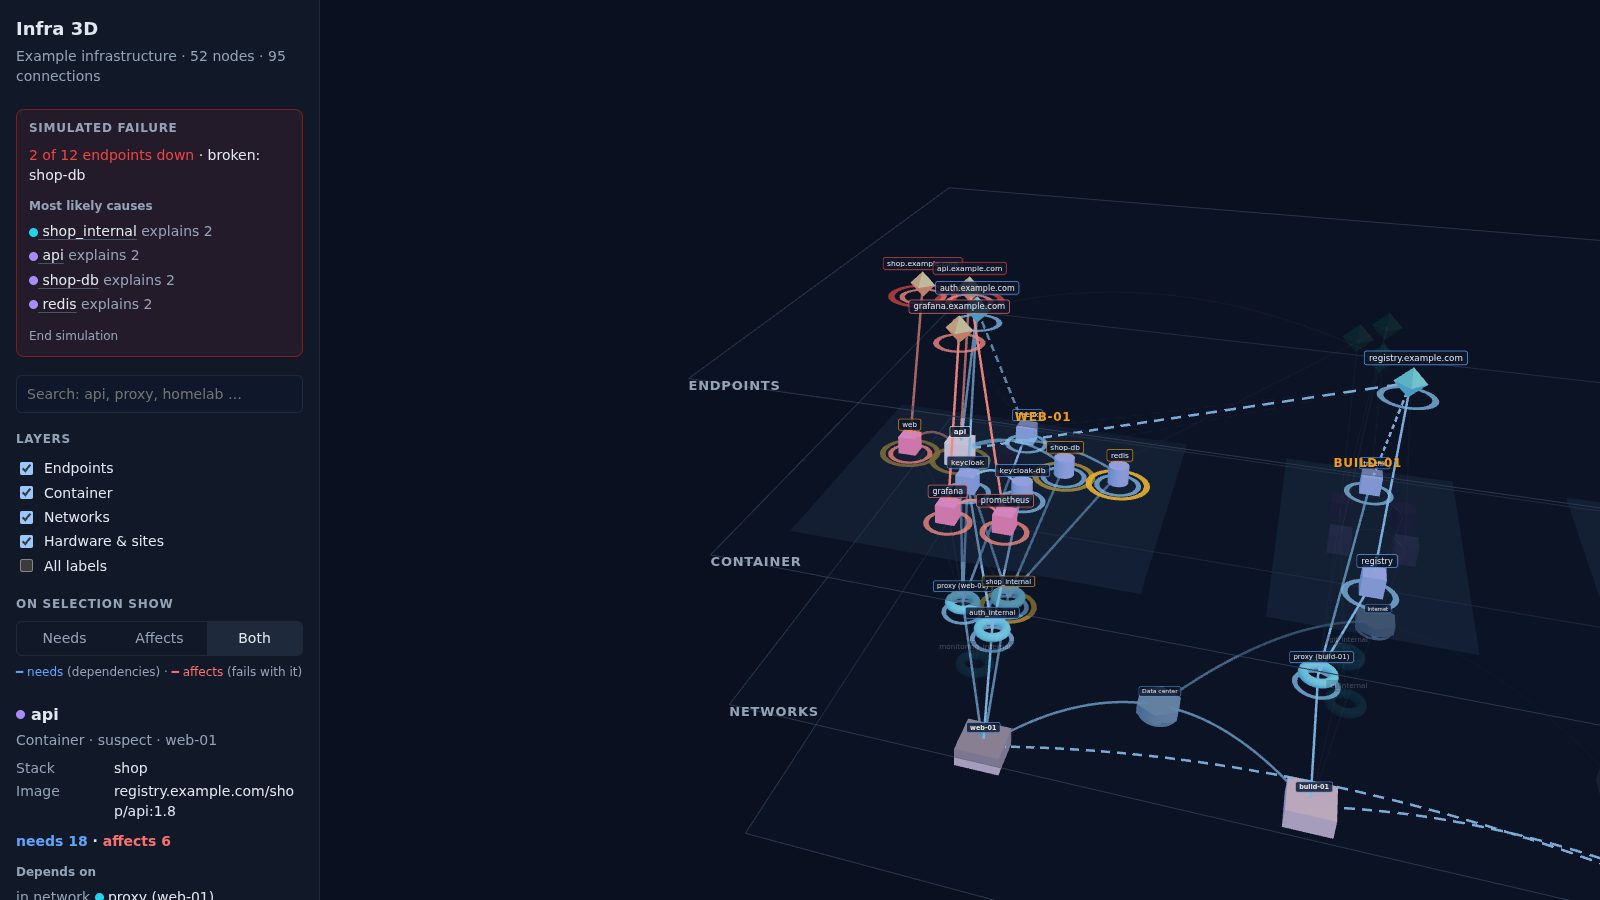
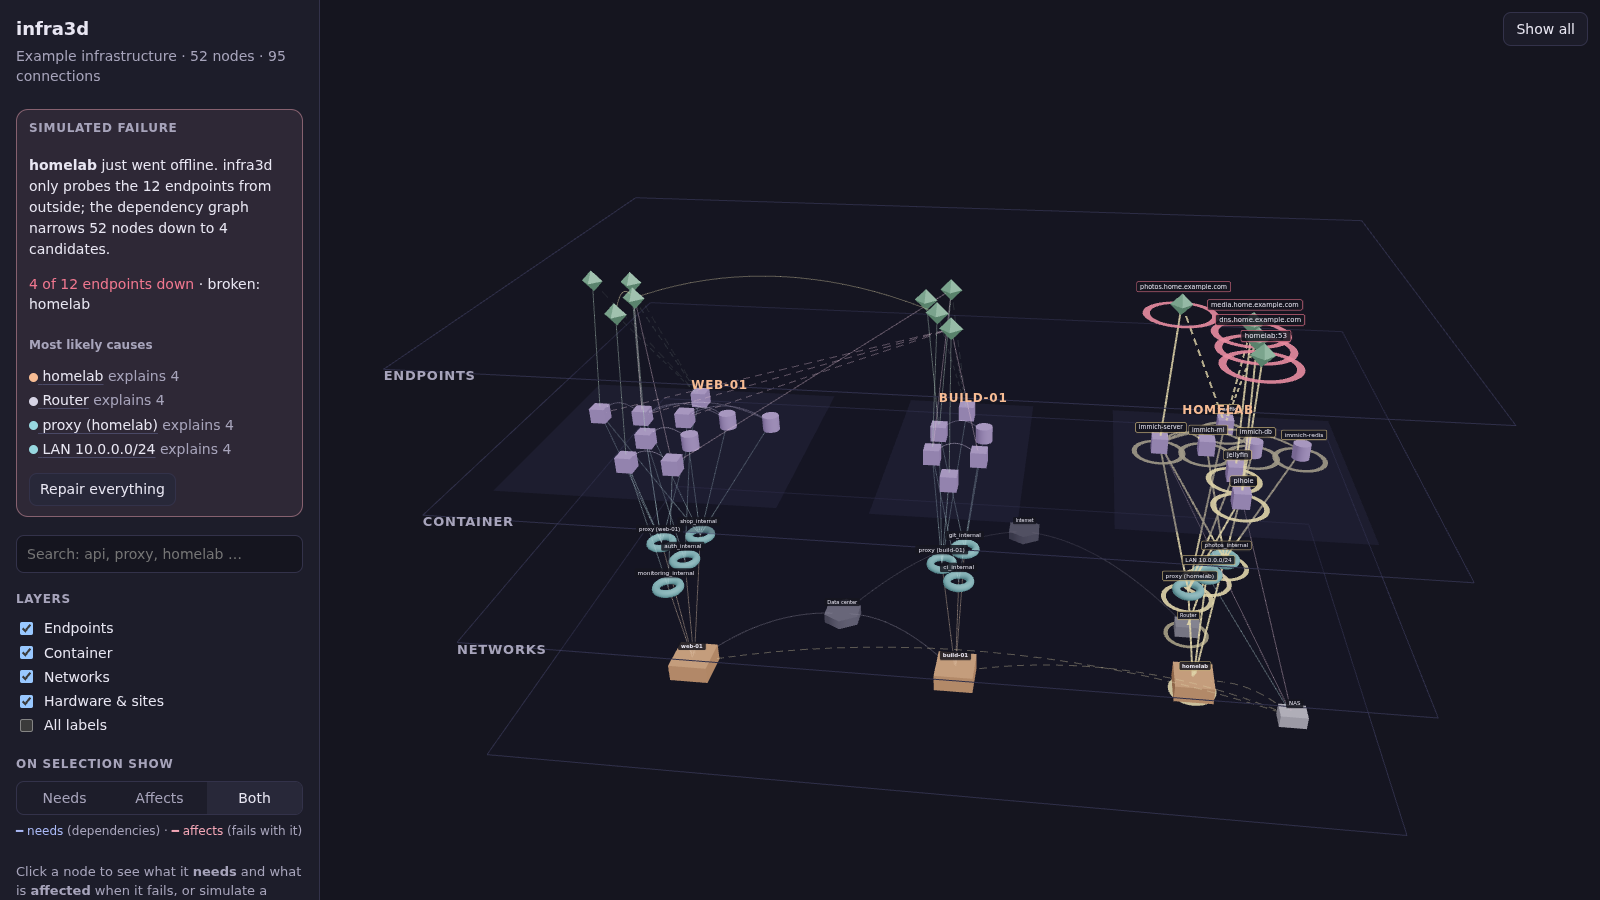
Re-record demo and screenshot with the pastel theme
Claude-Session: https://claude.ai/code/session_01Wx7fjTJL33KBMp5kG53hcv

diff --git a/packages/infra3d/README.md b/packages/infra3d/README.md
@@ -3,7 +3,7 @@
 React component that shows IT infrastructure as stacked 3D layers
 (hardware → networks → containers → endpoints) you can rotate, zoom and click through.
 
-![infra3d demo: a simulated database failure narrowed down to its likely causes, with the dependencies and impact of the selected container highlighted](https://raw.githubusercontent.com/SurfaceScratcher/infra3d/main/docs/screenshot.png)
+![infra3d demo: a host goes offline, four endpoints fail and the dependency graph narrows 52 nodes down to four likely causes](https://raw.githubusercontent.com/SurfaceScratcher/infra3d/main/docs/screenshot.png)
 
 **[Live demo](https://surfacescratcher.github.io/infra3d/)** · [Repository](https://github.com/SurfaceScratcher/infra3d)
 
